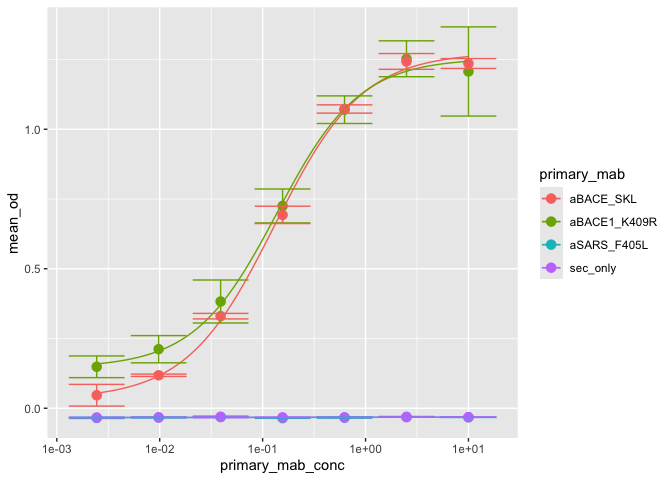
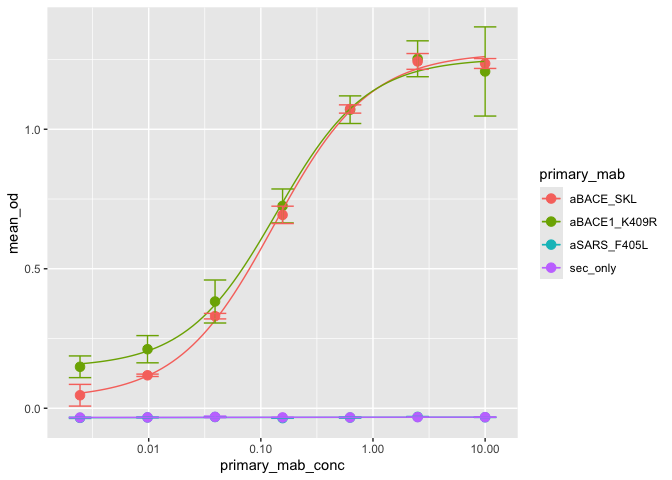
readme build

diff --git a/README.md b/README.md
@@ -28,10 +28,9 @@ This is a basic example which shows you how plot ELISA data:
 ``` r
 library(elisa)
 file <- system.file("extdata", "elisa_example.xlsx", package = "elisa")
-plot_elisa(file,
-           group = c(primary_mab, primary_mab_conc),
-           x = primary_mab_conc,
-           plot_group = primary_mab,
+plot_elisa(file, primary = primary_mab, od = od450,
+           group_by = c(primary_mab, primary_mab_conc),
+           x = primary_mab_conc, color = primary_mab,
            xlog = TRUE, errorbars = TRUE)
 #> Data: elisa_example.xlsx; Plate type: 96-well plate
 #> `geom_smooth()` using formula = 'y ~ x'
